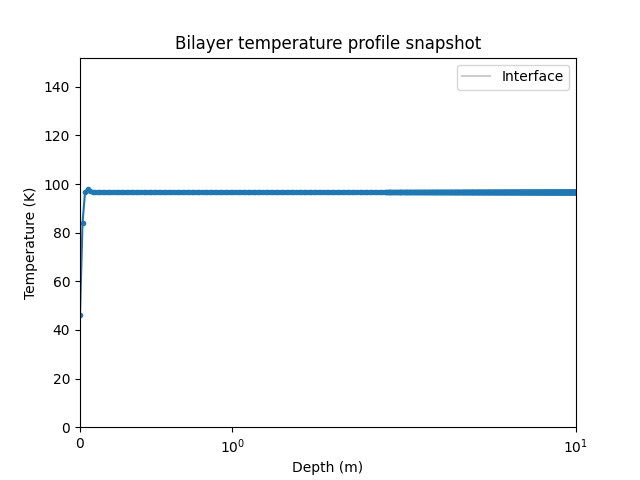
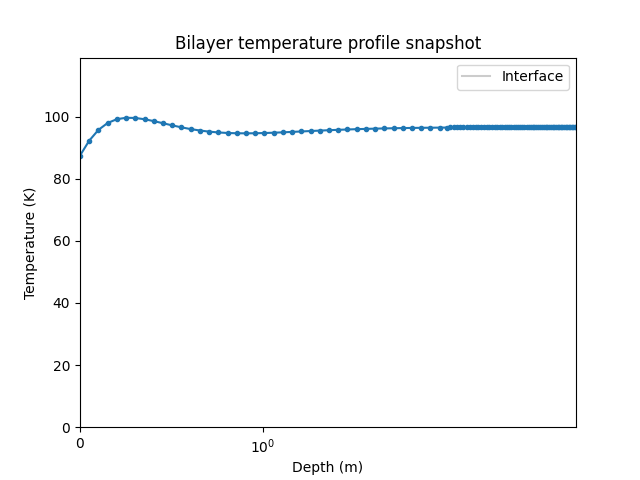
FAST solver update!

diff --git a/src/multiheats/solvers.py b/src/multiheats/solvers.py
@@ -28,87 +28,6 @@ class ImplicitSolver:
         self.nx = prof.spaces.shape[0]
         self.dx = np.diff(prof.spaces)
 
-    def implicit_scheme_slow(self, dt, solar_flux):
-        """
-        Solves the discretized heat equation implicitely
-        with Euler Backward Scheme.
-        Input: prev_temp at time it-1
-        Returns: new_temp at time it np.array with shape=(nx)
-        """
-
-        rcoef = dt / self.rho / self.cp
-        cond = self.cond
-        dx = self.dx
-        prev_temp = np.copy(self.temp)
-        matrice = np.zeros((self.nx, self.nx))
-
-        for ix in range(1, self.nx - 1):
-
-            # dkn/dx
-            dkn = (cond[ix + 1] - cond[ix]) / (2 * dx[ix]) + (
-                cond[ix] - cond[ix - 1]
-            ) / (2 * dx[ix - 1])
-            # an
-            matrice[ix, ix - 1] = (
-                -rcoef[ix]
-                / dx[ix - 1]
-                * (-dkn / 2 + 2 * cond[ix] / (dx[ix] + dx[ix - 1]))
-            )
-            # bn
-            matrice[ix, ix] = 1 - rcoef[ix] / (dx[ix] * dx[ix - 1]) * (
-                dkn / 2 * (dx[ix] - dx[ix - 1]) - 2 * cond[ix]
-            )
-            # cn
-            matrice[ix, ix + 1] = (
-                -rcoef[ix] / dx[ix] * (dkn / 2 + 2 * cond[ix] / (dx[ix] + dx[ix - 1]))
-            )
-
-        # Set BC
-        source = prev_temp + rcoef * self.qheat
-        matrice, source = self.set_flux_BC_slow(matrice, source, dt, solar_flux)
-
-        # Use solve banded
-        matrice2 = np.zeros((3, self.nx))
-        matrice2[0, 1:] = matrice.diagonal(1)
-        matrice2[1, :] = matrice.diagonal(0)
-        matrice2[2, :-1] = matrice.diagonal(-1)
-
-        new_temp = scipy.linalg.solve_banded((1, 1), matrice2, source)
-
-        return new_temp
-
-    def set_flux_BC(self, dt, solar_flux):
-        """
-        Set boundary conditions for implicit Euler Scheme
-        Imposed flux or imposed temperature possible.
-        """
-        rcoef = dt / self.rho / self.cp
-        cond = self.cond
-
-        # Set Boundary conditions
-        bc_top = solar_flux / cond[0]
-        bc_top += self.eps * cst.SIGMA / self.cond[0] * self.temp[0] ** 4
-        self.bc_top = bc_top
-        bc_bottom = 0
-
-        s1 = (
-            self.temp[0]
-            + rcoef[0] * (cond[1] - 3 * cond[0]) / self.dx[0] * bc_top
-            + rcoef[0] * self.qheat[0]
-        )
-
-        sN = (
-            self.temp[-1]
-            + rcoef[-1] * (3 * cond[-1] - cond[-2]) * bc_bottom / self.dx[-1]
-            + rcoef[-1] * self.qheat[-1]
-        )
-
-        b1 = 1 + 2 * rcoef[0] * cond[0] / self.dx[0] ** 2  # b1
-        c1 = -2 * rcoef[0] * cond[0] / self.dx[0] ** 2  # c1
-        aN = -2 * rcoef[-1] * cond[-1] / self.dx[-1] ** 2  # aN
-        bN = 1 + 2 * rcoef[-1] * cond[-1] / self.dx[-1] ** 2  # bN
-        return s1, sN, b1, c1, aN, bN
-
     def implicit_scheme(self, dt, solar_flux):
         """
         Solves the discretized heat equation implicitely
@@ -155,7 +74,7 @@ class ImplicitSolver:
 
         return new_temp
 
-    def set_flux_BC_slow(self, matrice, source, dt, solar_flux):
+    def set_flux_BC(self, dt, solar_flux):
         """
         Set boundary conditions for implicit Euler Scheme
         Imposed flux or imposed temperature possible.
@@ -169,22 +88,23 @@ class ImplicitSolver:
         self.bc_top = bc_top
         bc_bottom = 0
 
-        source[0] = (
+        s1 = (
             self.temp[0]
             + rcoef[0] * (cond[1] - 3 * cond[0]) / self.dx[0] * bc_top
             + rcoef[0] * self.qheat[0]
         )
-        source[-1] = (
+
+        sN = (
             self.temp[-1]
             + rcoef[-1] * (3 * cond[-1] - cond[-2]) * bc_bottom / self.dx[-1]
             + rcoef[-1] * self.qheat[-1]
         )
 
-        matrice[0, 0] = 1 + 2 * rcoef[0] * cond[0] / self.dx[0] ** 2  # b1
-        matrice[0, 1] = -2 * rcoef[0] * cond[0] / self.dx[0] ** 2  # c1
-        matrice[-1, -2] = -2 * rcoef[-1] * cond[-1] / self.dx[-1] ** 2  # an
-        matrice[-1, -1] = 1 + 2 * rcoef[-1] * cond[-1] / self.dx[-1] ** 2  # bn
-        return matrice, source
+        b1 = 1 + 2 * rcoef[0] * cond[0] / self.dx[0] ** 2  # b1
+        c1 = -2 * rcoef[0] * cond[0] / self.dx[0] ** 2  # c1
+        aN = -2 * rcoef[-1] * cond[-1] / self.dx[-1] ** 2  # aN
+        bN = 1 + 2 * rcoef[-1] * cond[-1] / self.dx[-1] ** 2  # bN
+        return s1, sN, b1, c1, aN, bN
 
 
 class CrankNicolson:

diff --git a/src/multiheats/main.py b/src/multiheats/main.py
@@ -43,7 +43,7 @@ if __name__ == "__main__":
     temp_eq = surf.get_eq_temp(prof.lat, prof.long, prof.eps)
     prof.temp = np.full(prof.nx, temp_eq)
 
-    times = surf.times[:]
+    times = surf.times[:500]
     nt = times.shape[0]
     dts = np.diff(times)
     temps = np.zeros((nt, prof.nx))
@@ -53,22 +53,16 @@ if __name__ == "__main__":
         solver = ImplicitSolver(prof)
         solar_flux = -surf.get_flux(times[it], prof.lat, prof.long)
         prof.temp = solver.implicit_scheme(dts[it], solar_flux)
-        # prof.temp = solver.implicit_scheme_slow(dts[it], solar_flux)
-
-        # solver = CrankNicolson(prof)
-        # solar_flux = -surf.get_flux(times[it], prof.lat, prof.long)
-        # next_solar_flux = -surf.get_flux(times[it + 1], prof.lat, prof.long)
-        # prof.temp = solver.CN_scheme(dts[it], solar_flux, next_solar_flux)
 
         temps[it] = prof.temp
 
     print("Visualisation")
-    it = 120
+    it = 10
     # vis.use_latex()
-    # vis.plot_temp(prof.spaces, temps, it, interf=prof.interf)
+    vis.plot_temp(prof.spaces, temps, it, interf=prof.interf)
     # vis.plot_multi_temp(prof.spaces, temps, n_curves=10)
     # anim = vis.animate_function(
     #     prof.spaces, temps, interf=prof.interf, step=5, frames=400, save=False
     # )
-    # plt.savefig("hey.png")
+    plt.savefig("hey.png")
     # plt.show()

diff --git a/src/multiheats/create_profiles.py b/src/multiheats/create_profiles.py
@@ -15,15 +15,15 @@ class Profile:
     """
 
     def __init__(self) -> None:
-        self.nx = 600
+        self.nx = 100
         self.lat = 0
         self.long = 0
         self.eps = 0.94  # Emissivity
         x0 = 0  # Surface depth (m)
-        xf = 10  # Total depth (m)
+        xf = 5  # Total depth (m)
 
         self.qheat = np.full(self.nx, 0)
-        power = 1.5
+        power = 3
         spaces = np.linspace(x0, xf ** (1 / power), self.nx)
         self.spaces = spaces ** (power)
         self.spaces = np.linspace(0, xf, self.nx)
@@ -36,7 +36,7 @@ class Profile:
             rho - Density (kg,m-3)
             cp - Heat capacity (J.kg-1.K-1)
         """
-        cond = 0.0001
+        cond = 0.03
         rho = 917.0
         cp = 839.0
 
